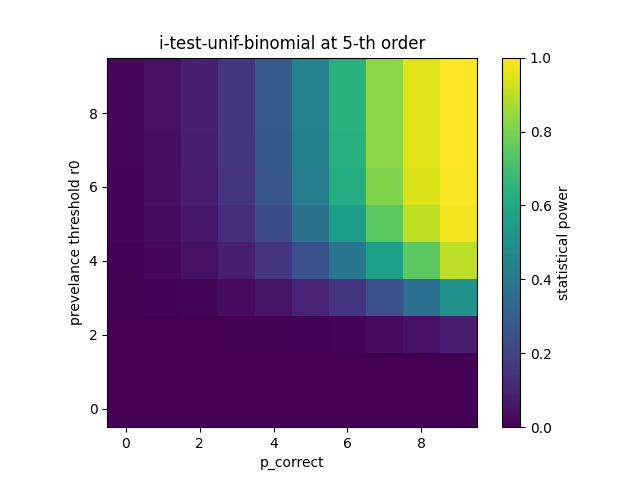
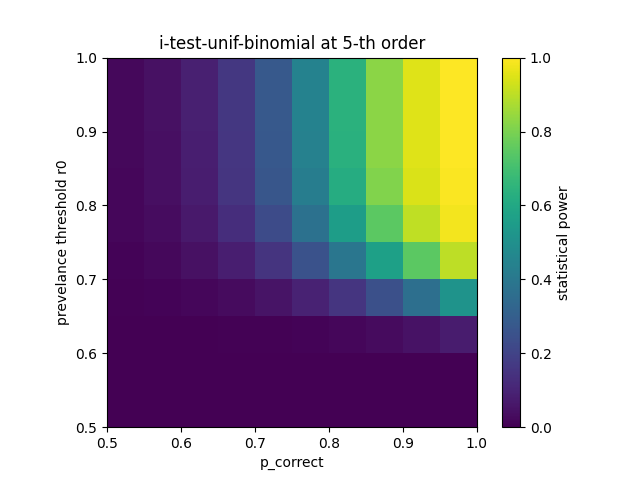
Fix example plots

diff --git a/i_test_unif_perm.py b/i_test_unif_perm.py
@@ -129,7 +129,7 @@ def search_ith_perm(imax, *args, h=0.05):
                 P_ai_gt_T = binom.cdf(i - 1, N, P_a_lt_T)
                 accum = accum + P_ai_gt_T
                 accum_list[k, j] = P_ai_gt_T
-        im = plt.imshow(accum_list,origin='lower', extent=[0.0,1.0,0.0,1.0])
+        im = plt.imshow(accum_list, origin='lower', extent=[r0,1.0,p_chance,1.0])
         im.set_clim(0,1.0)
         plt.xlabel('p_correct')
         plt.ylabel('prevelance threshold r0')
@@ -180,7 +180,7 @@ def search_ith_binom(imax, *args, h=0.05):
                 P_ai_gt_T = binom.cdf(i - 1, N, P_a_lt_T)
                 accum = accum + P_ai_gt_T
                 accum_list[k, j] = P_ai_gt_T
-        im=plt.imshow(accum_list,origin='lower')
+        im=plt.imshow(accum_list,origin='lower',extent=[r0,1.0,p_chance,1.0])
         im.set_clim(0,1.0)
         plt.xlabel('p_correct')
         plt.ylabel('prevelance threshold r0')
@@ -289,7 +289,7 @@ if __name__ == "__main__":
     # 1. set critical value and prevalence thredhold
     N = 50
     alpha = 0.05
-    r = 0.7
+    r = 0.8
     r0 = 0.5  # theshold
     seed = 3284
     n_perm = 1000
@@ -299,16 +299,16 @@ if __name__ == "__main__":
 
     ## Simulate data
     acc = simulate_acc(N, seed)
-    # plt.hist(acc, bins=10, density=True)
-    # plt.title(f"True accuracy of all {N} subjects")
-    # plt.show()
-    # plt.close()
+    plt.hist(acc, bins=10, density=True)
+    plt.title(f"True accuracy of all {N} subjects")
+    plt.show()
+    plt.close()
 
     perm_acc = simulate_D_acc_null(N, n_perm=n_perm)
-    # plt.hist(perm_acc[3], bins=10, density=True)
-    # plt.title("permutation accuracy from one subject")
-    # plt.show()
-    # plt.close()
+    plt.hist(perm_acc[3], bins=10, density=True)
+    plt.title("permutation accuracy from one subject")
+    plt.show()
+    plt.close()
 
     # 2. Find imax
     imax = find_ith_binom(N, alpha, r0)
@@ -321,10 +321,10 @@ if __name__ == "__main__":
     ## 3. Search for ith order
     ## manually set imax
     imax = 6
-    ith = search_ith_binom(imax, alpha, r0, p_chance, N, N_trial)
-    #ith = search_ith_perm(imax, alpha, r0, p_chance, N, N_trial, perm_acc)
+    #ith = search_ith_binom(imax, alpha, r0, p_chance, N, N_trial)
+    ith = search_ith_perm(imax, alpha, r0, p_chance, N, N_trial, perm_acc)
     breakpoint()
 
     ## 4. Perform 2nd level test
-    # i_test_perm(ith, alpha, r0, p_chance, N_trial, N, perm_acc, acc)
-    exhaust_imax(imax, alpha, r0, p_chance, N_trial, N, perm_acc)
+    i_test_perm(ith, alpha, r0, p_chance, N_trial, N, perm_acc, acc)
+    # exhaust_imax(imax, alpha, r0, p_chance, N_trial, N, perm_acc)

diff --git a/README.md b/README.md
@@ -31,9 +31,42 @@ M: number of permutations
 
 ## Example:
 
-![binom](plot_i_test/example_i_test_binom.png)
+1. Simulating 50 subjects, each associate with an accuracy score and 1000 permutations 
+
+![acc](plot_i_test/simulate_acc.png)  
+*Simulate accuracy scores for 50 subjects*
+
+![permacc](plot_i_test/simulate_perm_acc_sub4.png)  
+*Simulate 1000 permutations, the distribution of accuracy scores without label
+information for subject 4*
+
+2. Plot statistic power given different prevalance value `r0 [0.5,1.0]` and
+   probability at chance level `p_chance`
+
+![binom](plot_i_test/example_i_test_binom.png)  
 *Example of using binomial distribution: statstic power with different pervalence value and probability of correctly classified*
 
-![perm](plot_i_test/example_i_test_perm.png)
+![perm](plot_i_test/example_i_test_perm.png)  
 *Example of using permutation test: statstic power with different pervalence value and probability of
 correctly classified*
+
+
+3. Numerically estimate the expectation of power given all `r0` and `p_chance`
+
+```
+i - 1, T - 0.3076923076923077, power - 9.997523004313866
+i - 2, T - 0.3076923076923077, power - 23.90166720736957
+i - 3, T - 0.38461538461538464, power - 18.879334126439176
+i - 4, T - 0.38461538461538464, power - 27.369179087135226
+i - 5, T - 0.46153846153846156, power - 18.82136698708326
+i - 6, T - 0.46153846153846156, power - 24.08311303374316
+```
+
+4. The result of 2nd-level group test
+
+```
+acc_i: 0.499573710810515
+Lower bound 0.0003654499011156344 < 0.05, reject null, significant
+Alternatively: using binomial distribution
+binomial lower bound 2.8064773123740115e-05 < 0.05, significant
+```
